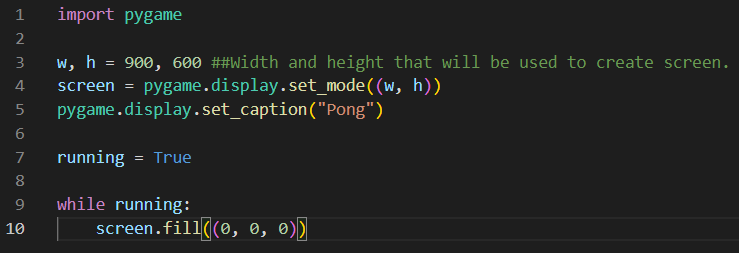
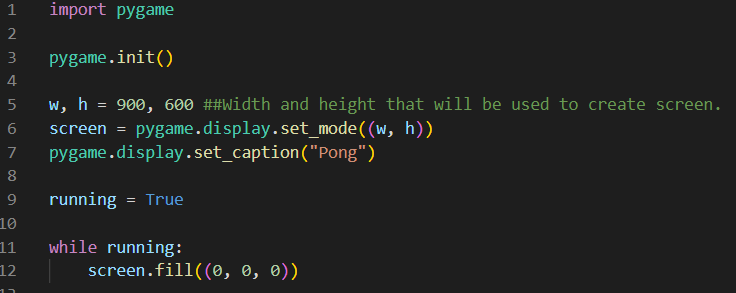
Overview new
Viewing the new updates to see how it looks on the website

diff --git a/Test.py b/Test.py
@@ -1,5 +1,7 @@
 import pygame
 
+pygame.init()
+
 w, h = 900, 600 ##Width and height that will be used to create screen.
 screen = pygame.display.set_mode((w, h))
 pygame.display.set_caption("Pong")
@@ -7,4 +9,7 @@ pygame.display.set_caption("Pong")
 running = True
 
 while running:
-    screen.fill((0, 0, 0))
+    screen.fill((255, 255, 0))
+
+
+

diff --git a/Overview.md b/Overview.md
@@ -27,4 +27,30 @@ As any good game starts, we will need a background. For the purpose of learning 
 
 For this purpose I have created a new python file called Test.py:
 
-![Alt text](image.png)
+![Screen shot of Test.py with only background code copied from Pong.py](image.png)
+
+This code above does a few simple tasks:
+    1. Initializes pygame with init()
+    2. Sets the screen dimensions with display.set_mode()
+    3. Sets the screen title with display.set_caption()
+    4. And lastly it fills the screen with one colour. In this step we can change it so it actualy loads an image instead as well.
+
+(When loading an image instead of filling it with one colour, the image requires to be in the same folder.)
+
+Now, lets see what we get once we run this code with (0, 0, 0) -> Black colour filling:
+
+![Code run with Black colour filling like shown in the code](image-1.png)
+
+## Step 3: Adding the players
+
+For the purpose of adding objects into our game (screen), we will be adding players in the shape of rectangles that user will be commanding via either up and down arrows or letters W and S. We can create a new class called player with the following code: 
+
+![Class player from Pong.py](image-2.png)
+
+The above code defines the a few key factors of the player:
+    a. x-position and y-position of the player. Of course, for the purpose of this game we will only need y-position to be changing and x-position to be the same for the entire game.
+    b. width and height. Just like the x-position, these won't be changing for the rest of the game but we will require height to check if the player hits the boundries.
+    c. Speed and colour. Colour will be only helpful to separate it from the screen and the ball. Speed on the other hand is required to see how much it displaces when player moves.
+
+Defined display only does a simple job of displaying the player where it has been specified to and defined update will be a key function that updates players direction and possition. Also this is where we will make sure that player does not go off boundry. 
+
